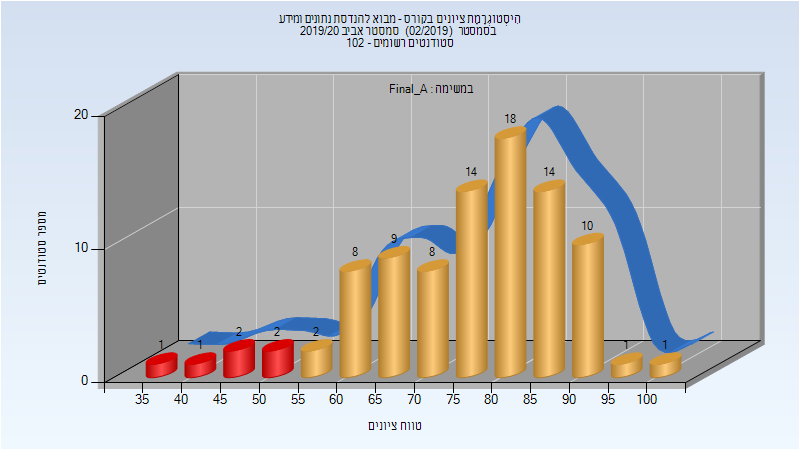
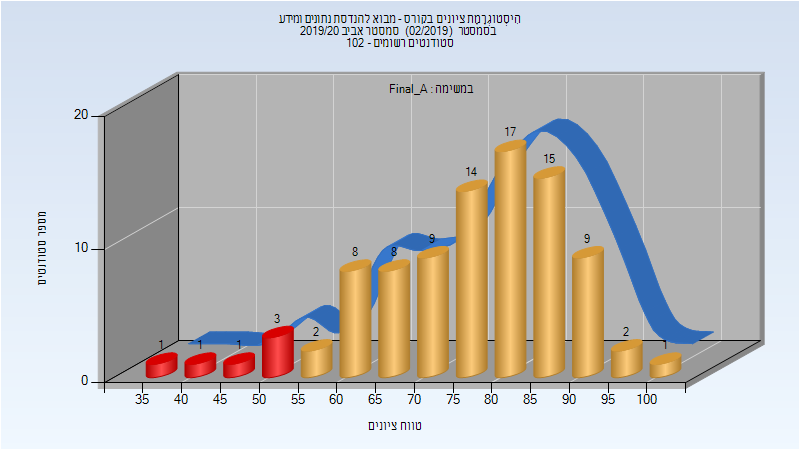
Deploy michael-maltsev/technion-histograms to github.com/michael-maltsev/technion-histograms.git:gh-pages

diff --git a/094201/index.html b/094201/index.html
@@ -330,6 +330,32 @@
 <td>93</td>
 <td>38</td>
 <td>100</td>
+<td>76.78</td>
+<td>78</td>
+</tr>
+</tbody>
+</table>
+<h3>סופי</h3>
+<p><img src="201902/Finals.png" alt="201902 Finals" /></p>
+<table>
+<thead>
+<tr>
+<th>סטודנטים</th>
+<th>עברו/נכשלו</th>
+<th>אחוז עוברים</th>
+<th>ציון מינימלי</th>
+<th>ציון מקסימלי</th>
+<th>ממוצע</th>
+<th>חציון</th>
+</tr>
+</thead>
+<tbody>
+<tr>
+<td>91</td>
+<td>85/6</td>
+<td>93</td>
+<td>38</td>
+<td>100</td>
 <td>76.593</td>
 <td>79</td>
 </tr>

diff --git a/094201/README.md b/094201/README.md
@@ -99,5 +99,13 @@
 
 | סטודנטים | עברו/נכשלו | אחוז עוברים | ציון מינימלי | ציון מקסימלי | ממוצע | חציון |
 | ---- | ---- | ---- | ---- | ---- | ---- | ---- |
+| 91 | 85/6 | 93 | 38 | 100 | 76.78 | 78 |
+
+### סופי
+
+![201902 Finals](201902/Finals.png)
+
+| סטודנטים | עברו/נכשלו | אחוז עוברים | ציון מינימלי | ציון מקסימלי | ממוצע | חציון |
+| ---- | ---- | ---- | ---- | ---- | ---- | ---- |
 | 91 | 85/6 | 93 | 38 | 100 | 76.593 | 79 |
 
